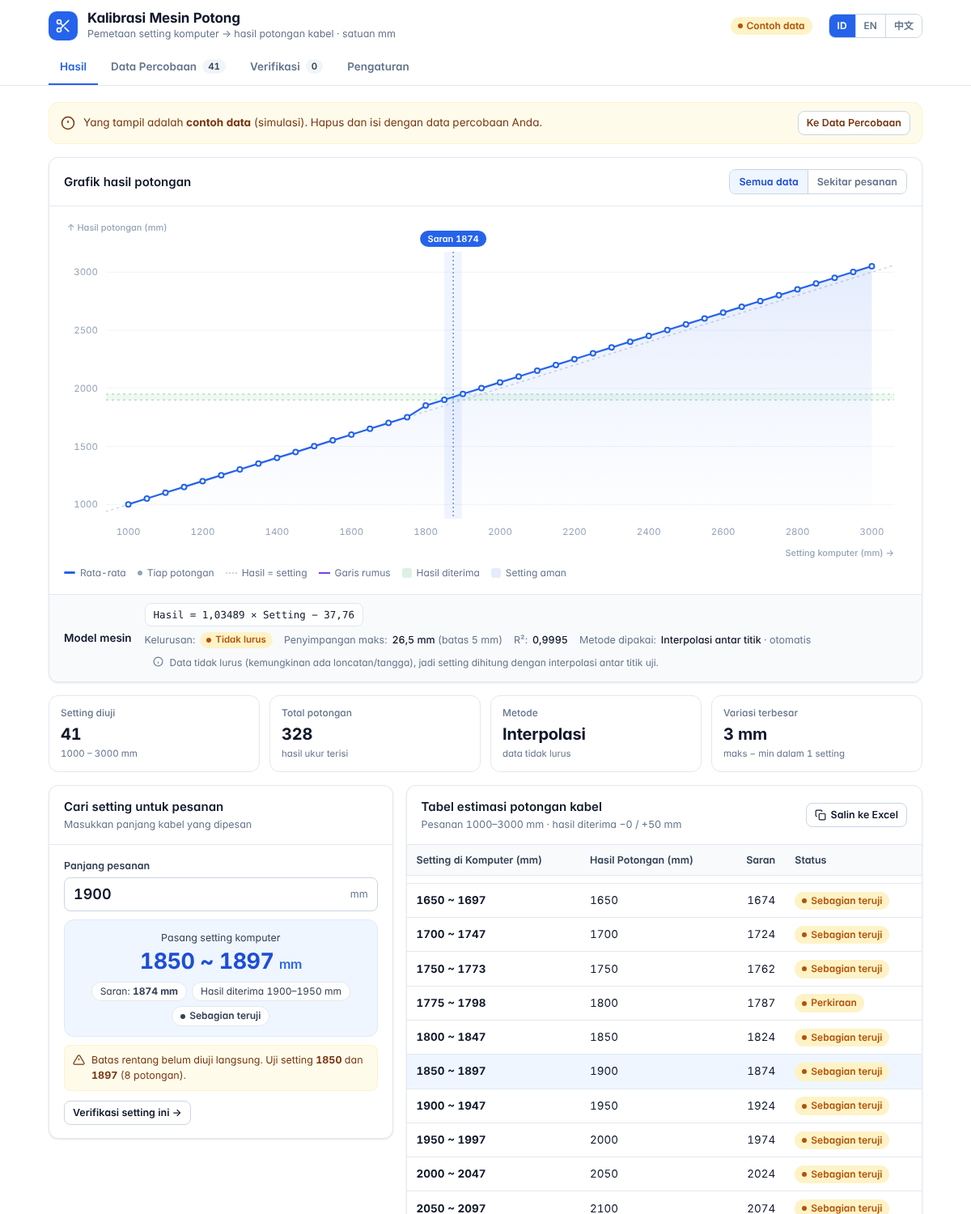
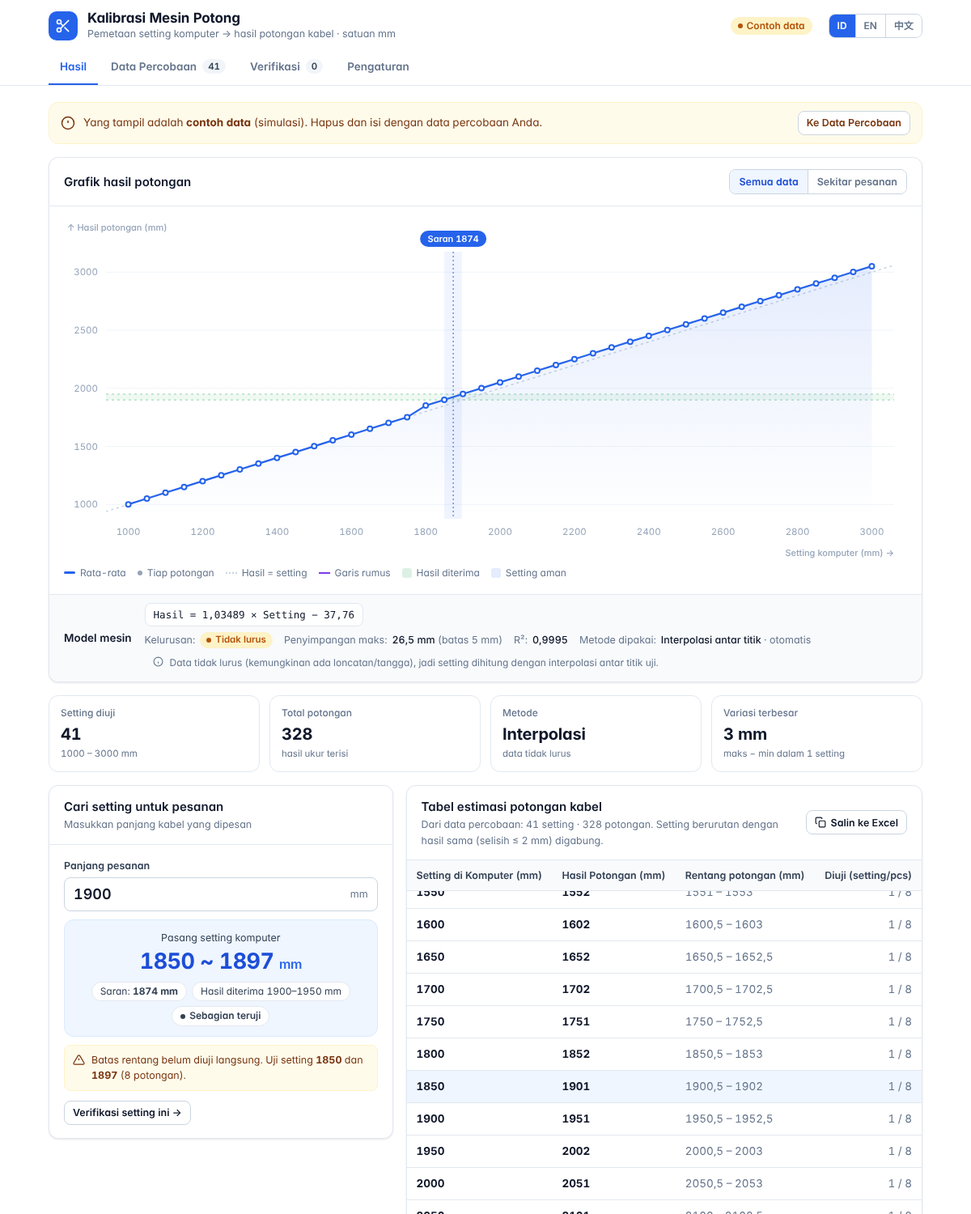
Estimation table built from trial data; remove row-interval setting
- Table rows now come from tested settings only; consecutive settings with
  the same result (mean difference <= 2 mm) are merged into one range
- Highlight rows safe for the searched order; copy-to-Excel follows new table
- Remove 'row interval' setting; mapping range now only drives Stage 1 suggestions
- Settings stored by key (backward compatible with older saved data)

Claude-Session: https://claude.ai/code/session_012YpKXFKuL8qfAd7MSWeyxr

Changed region(s): [[0.4317, 0.644, 0.925, 1.0]]

diff --git a/index.html b/index.html
@@ -369,7 +369,6 @@ svg.chart{width:100%;height:auto;display:block}
         <div class="form-grid">
           <div class="field"><label for="rmin" data-i="f.rmin"></label><div class="unit"><input id="rmin" class="inp" type="number" step="1" value="1000"></div></div>
           <div class="field"><label for="rmax" data-i="f.rmax"></label><div class="unit"><input id="rmax" class="inp" type="number" step="1" value="3000"></div></div>
-          <div class="field"><label for="rstep" data-i="f.rstep"></label><div class="unit"><input id="rstep" class="inp" type="number" step="1" min="1" value="50"></div><div class="help" data-i="h.rstep"></div></div>
         </div>
       </div>
     </div>
@@ -459,7 +458,7 @@ function suggestions(S,rmin,rmax,lookupRows){
     if(gap>10){for(let s=Math.ceil((a.sp+1)/10)*10;s<b.sp;s+=10)if(!tested.has(s))t2.add(s);}
     else if(gap>1){const m=Math.round((a.sp+b.sp)/2);if(!tested.has(m))t3.add(m);}
   }
-  lookupRows.forEach(r=>r.res.segs.forEach(sg=>{[sg.a,sg.b].forEach(e=>{if(!tested.has(e))t3.add(e);});}));
+  (lookupRows||[]).forEach(r=>r&&r.segs&&r.segs.forEach(sg=>{[sg.a,sg.b].forEach(e=>{if(!tested.has(e))t3.add(e);});}));
   t2.forEach(s=>t3.delete(s));
   return {t1,t2:[...t2].sort((a,b)=>a-b),t3:[...t3].sort((a,b)=>a-b)};
 }
@@ -476,7 +475,7 @@ id:{
  'find.title':'Cari setting untuk pesanan','find.desc':'Masukkan panjang kabel yang dipesan','find.label':'Panjang pesanan',
  'model.title':'Model mesin',
  'tbl.title':'Tabel estimasi potongan kabel','btn.copy':'Salin ke Excel',
- 'tbl.foot':'{ok} kedua batas rentang sudah diuji · {part} / {est} batas dihitung dari model, perlu diuji · {need} belum ada data',
+ 
  'chart.title':'Grafik hasil potongan',
  'lg.pt':'Tiap potongan','lg.mean':'Rata-rata','lg.ideal':'Hasil = setting','lg.fit':'Garis rumus','lg.ok':'Hasil diterima','lg.safe':'Setting aman',
  'zoom.all':'Semua data','zoom.order':'Sekitar pesanan','sum.title':'Ringkasan per setting','sum.desc':'rata-rata, min, maks, variasi',
@@ -491,8 +490,8 @@ id:{
  'ver.order':'Pesanan','ver.setting':'Setting dipakai','ver.date':'Tanggal',
  'set.rules':'Aturan pesanan','set.rulesD':'Batas hasil potong yang diterima untuk setiap pesanan',
  'f.tolMin':'Boleh kurang','h.tolMin':'0 = tidak boleh lebih pendek dari pesanan','f.tolPlus':'Boleh lebih','h.tolPlus':'Pesanan 1900 → diterima 1900–1950',
- 'set.tbl':'Tabel estimasi','set.tblD':'Rentang panjang pesanan yang ditampilkan di tabel',
- 'f.rmin':'Pesanan dari','f.rmax':'Pesanan sampai','f.rstep':'Jarak antar baris','h.rstep':'50 → baris 1700, 1750, 1800, …',
+ 'set.tbl':'Rentang pemetaan','set.tblD':'Rentang setting untuk saran Tahap 1 (Rekomendasi, per 50 mm)',
+ 'f.rmin':'Dari','f.rmax':'Sampai',
  'set.method':'Metode perhitungan','set.methodD':'Cara web memperkirakan hasil di antara setting yang diuji','f.mode':'Metode',
  'mode.auto':'Otomatis (disarankan)','mode.rumus':'Rumus garis lurus','mode.interp':'Interpolasi antar titik',
  'h.mode':'Otomatis: pakai rumus jika data lurus (penyimpangan ≤ 5 mm), selain itu interpolasi.',
@@ -501,7 +500,7 @@ id:{
  'kpi.tested':'Setting diuji','kpi.total':'Total potongan','kpi.totalS':'hasil ukur terisi','kpi.method':'Metode','kpi.var':'Variasi terbesar','kpi.varS':'maks − min dalam 1 setting',
  'm.rumus':'Rumus','m.interp':'Interpolasi','m.lurus':'data lurus','m.tidak':'data tidak lurus',
  'hero.put':'Pasang setting komputer','hero.saran':'Saran','hero.acc':'Hasil diterima {a}–{b} mm',
- 'b.ok':'Teruji','b.part':'Sebagian teruji','b.est':'Perkiraan','b.need':'Perlu percobaan',
+ 'b.ok':'Teruji','b.part':'Sebagian teruji','b.est':'Perkiraan',
  'n.outData':'Rentang ini di luar setting yang pernah diuji (perpanjangan rumus). Wajib diuji dulu.',
  'n.ends':'Batas rentang belum diuji langsung. Uji setting <b>{a}</b> dan <b>{b}</b> (8 potongan).',
  'n.other':'Rentang lain yang juga aman: {r}','btn.verThis':'Verifikasi setting ini →',
@@ -515,8 +514,8 @@ id:{
  'md.noteI':'Data tidak lurus (kemungkinan ada loncatan/tangga), jadi setting dihitung dengan interpolasi antar titik uji.',
  'md.forced':'Rumus dipaksa padahal data tidak lurus. Hasil di sekitar titik loncatan bisa salah.',
  'eq.res':'Hasil','eq.set':'Setting','eq.setting':'setting',
- 'tbl.desc':'Pesanan {a}–{b} mm · hasil diterima −{m} / +{p} mm',
- 'th.set':'Setting di Komputer (mm)','th.res':'Hasil Potongan (mm)','th.sug':'Saran','th.status':'Status',
+ 
+ 'th.set':'Setting di Komputer (mm)','th.cuts':'Rentang potongan (mm)','th.tested':'Diuji (setting/pcs)','tested.x':'{s} / {n}','tbl.desc2':'Dari data percobaan: {s} setting · {n} potongan. Setting berurutan dengan hasil sama (selisih ≤ {d} mm) digabung.','tbl.foot2':'Baris biru = semua potongannya masuk {a}–{b} mm (aman untuk pesanan {p} mm).','th.res':'Hasil Potongan (mm)',
  'ts.set':'Setting','ts.n':'Terisi','ts.mean':'Rata-rata','ts.min':'Min','ts.max':'Maks','ts.sel':'Selisih','ts.var':'Variasi',
  'v.ok':'stabil','v.mid':'sedang','v.bad':'besar',
  'st.no':'Tahap {n}','st1.t':'Pemetaan kasar','st1.d':'Setting per 50 mm di seluruh rentang pesanan.','st1.p':'({d}/{t} selesai)','st1.done':'Semua titik per 50 mm sudah ada','st1.rec':'Rekomendasi','st1.nInc':'{n} setting belum lengkap','st1.dMan0':'Mengikuti setting yang Anda tambahkan di Data percobaan. Belum ada setting — tambahkan lewat kolom Setting komputer di bawah.','st1.man':'Manual','st1.dMan':'Mengikuti setting di Data percobaan: {d}/{n} setting lengkap (8 potongan). Klik angka untuk mengisi yang belum lengkap.','st1.doneMan':'Semua {n} setting manual sudah lengkap',
@@ -533,7 +532,7 @@ id:{
  'toast.imported':'{n} data dimasukkan','toast.skipped':', {n} baris dilewati','toast.cleared':'Semua data percobaan dihapus','toast.sample':'Contoh data dimuat',
  'toast.added':'{n} setting ditambahkan — isi hasil ukurnya','toast.copied':'Tabel tersalin — tempel di Excel','toast.copyFail':'Gagal menyalin','toast.delVer':'Verifikasi dihapus',
  'err.sp':'Isi setting komputer dulu.','err.dup':'Setting {s} sudah ada.','err.nan':'{n} kolom berisi bukan angka (merah). Kolom tersebut tidak dihitung.',
- 'err.range':'Rentang pesanan tidak valid (Pengaturan).','err.rows':'Baris tabel terlalu banyak. Perbesar jarak antar baris (Pengaturan).',
+ 'err.range':'Rentang pesanan tidak valid (Pengaturan).',
  'x.range':'{a} – {b} mm'
 },
 en:{
@@ -545,7 +544,7 @@ en:{
  'find.title':'Find setting for an order','find.desc':'Enter the ordered cable length','find.label':'Order length',
  'model.title':'Machine model',
  'tbl.title':'Cable cut estimation table','btn.copy':'Copy to Excel',
- 'tbl.foot':'{ok} both range limits tested · {part} / {est} limits calculated from the model, need testing · {need} no data yet',
+ 
  'chart.title':'Cut result chart',
  'lg.pt':'Each cut','lg.mean':'Average','lg.ideal':'Result = setting','lg.fit':'Formula line','lg.ok':'Accepted result','lg.safe':'Safe setting',
  'zoom.all':'All data','zoom.order':'Around order','sum.title':'Summary per setting','sum.desc':'average, min, max, variation',
@@ -560,8 +559,8 @@ en:{
  'ver.order':'Order','ver.setting':'Setting used','ver.date':'Date',
  'set.rules':'Order rules','set.rulesD':'Accepted cut result limits for each order',
  'f.tolMin':'Allowed shorter','h.tolMin':'0 = must not be shorter than the order','f.tolPlus':'Allowed longer','h.tolPlus':'Order 1900 → accepted 1900–1950',
- 'set.tbl':'Estimation table','set.tblD':'Range of order lengths shown in the table',
- 'f.rmin':'Order from','f.rmax':'Order to','f.rstep':'Row interval','h.rstep':'50 → rows 1700, 1750, 1800, …',
+ 'set.tbl':'Mapping range','set.tblD':'Setting range for Stage 1 suggestions (Recommended, every 50 mm)',
+ 'f.rmin':'From','f.rmax':'To',
  'set.method':'Calculation method','set.methodD':'How the app estimates results between tested settings','f.mode':'Method',
  'mode.auto':'Automatic (recommended)','mode.rumus':'Straight-line formula','mode.interp':'Interpolation between points',
  'h.mode':'Automatic: use the formula if data is straight (deviation ≤ 5 mm), otherwise interpolation.',
@@ -570,7 +569,7 @@ en:{
  'kpi.tested':'Settings tested','kpi.total':'Total cuts','kpi.totalS':'measured results','kpi.method':'Method','kpi.var':'Largest variation','kpi.varS':'max − min within 1 setting',
  'm.rumus':'Formula','m.interp':'Interpolation','m.lurus':'straight data','m.tidak':'non-straight data',
  'hero.put':'Set the computer to','hero.saran':'Suggested','hero.acc':'Accepted result {a}–{b} mm',
- 'b.ok':'Tested','b.part':'Partly tested','b.est':'Estimated','b.need':'Needs trial',
+ 'b.ok':'Tested','b.part':'Partly tested','b.est':'Estimated',
  'n.outData':'This range is outside the tested settings (formula extrapolation). It must be tested first.',
  'n.ends':'Range limits not directly tested yet. Test settings <b>{a}</b> and <b>{b}</b> (8 cuts).',
  'n.other':'Other safe ranges: {r}','btn.verThis':'Verify this setting →',
@@ -584,8 +583,8 @@ en:{
  'md.noteI':'Data is not straight (likely steps/jumps), so the setting is calculated by interpolating between tested points.',
  'md.forced':'Formula forced although data is not straight. Results near jump points may be wrong.',
  'eq.res':'Result','eq.set':'Setting','eq.setting':'setting',
- 'tbl.desc':'Order {a}–{b} mm · accepted result −{m} / +{p} mm',
- 'th.set':'Computer Setting (mm)','th.res':'Cut Result (mm)','th.sug':'Suggested','th.status':'Status',
+ 
+ 'th.set':'Computer Setting (mm)','th.cuts':'Cut range (mm)','th.tested':'Tested (settings/pcs)','tested.x':'{s} / {n}','tbl.desc2':'From trial data: {s} settings · {n} cuts. Consecutive settings with the same result (difference ≤ {d} mm) are merged.','tbl.foot2':'Blue rows = all cuts within {a}–{b} mm (safe for order {p} mm).','th.res':'Cut Result (mm)',
  'ts.set':'Setting','ts.n':'Filled','ts.mean':'Average','ts.min':'Min','ts.max':'Max','ts.sel':'Difference','ts.var':'Variation',
  'v.ok':'stable','v.mid':'medium','v.bad':'large',
  'st.no':'Stage {n}','st1.t':'Coarse mapping','st1.d':'Settings every 50 mm across the order range.','st1.p':'({d}/{t} done)','st1.done':'All 50 mm points are present','st1.rec':'Recommended','st1.nInc':'{n} settings incomplete','st1.dMan0':'Follows the settings you add in Trial data. No settings yet — add them with the Computer setting field below.','st1.man':'Manual','st1.dMan':'Follows the settings in Trial data: {d}/{n} complete (8 cuts). Click a number to fill an incomplete one.','st1.doneMan':'All {n} manual settings are complete',
@@ -602,7 +601,7 @@ en:{
  'toast.imported':'{n} values imported','toast.skipped':', {n} rows skipped','toast.cleared':'All trial data cleared','toast.sample':'Sample data loaded',
  'toast.added':'{n} settings added — enter the measured results','toast.copied':'Table copied — paste into Excel','toast.copyFail':'Copy failed','toast.delVer':'Verification deleted',
  'err.sp':'Enter the computer setting first.','err.dup':'Setting {s} already exists.','err.nan':'{n} fields are not numbers (red). They are not counted.',
- 'err.range':'Invalid order range (Settings).','err.rows':'Too many table rows. Increase the row interval (Settings).',
+ 'err.range':'Invalid order range (Settings).',
  'x.range':'{a} – {b} mm'
 },
 zh:{
@@ -614,7 +613,7 @@ zh:{
  'find.title':'查找订单设定值','find.desc':'输入订单线缆长度','find.label':'订单长度',
  'model.title':'机器模型',
  'tbl.title':'线缆裁切估算表','btn.copy':'复制到 Excel',
- 'tbl.foot':'{ok} 范围两端均已测试 · {part} / {est} 范围端点由模型计算，需测试 · {need} 尚无数据',
+ 
  'chart.title':'裁切结果图',
  'lg.pt':'每次裁切','lg.mean':'平均值','lg.ideal':'结果 = 设定值','lg.fit':'公式线','lg.ok':'可接受结果','lg.safe':'安全设定',
  'zoom.all':'全部数据','zoom.order':'订单附近','sum.title':'各设定值汇总','sum.desc':'平均值、最小值、最大值、波动',
@@ -629,8 +628,8 @@ zh:{
  'ver.order':'订单','ver.setting':'所用设定值','ver.date':'日期',
  'set.rules':'订单规则','set.rulesD':'每个订单可接受的裁切结果范围',
  'f.tolMin':'允许偏短','h.tolMin':'0 = 不得短于订单长度','f.tolPlus':'允许偏长','h.tolPlus':'订单 1900 → 可接受 1900–1950',
- 'set.tbl':'估算表','set.tblD':'表中显示的订单长度范围',
- 'f.rmin':'订单起始','f.rmax':'订单结束','f.rstep':'行间隔','h.rstep':'50 → 行 1700、1750、1800 …',
+ 'set.tbl':'映射范围','set.tblD':'阶段 1 建议的设定值范围（推荐，每 50 mm）',
+ 'f.rmin':'从','f.rmax':'到',
  'set.method':'计算方法','set.methodD':'如何估算已测设定值之间的结果','f.mode':'方法',
  'mode.auto':'自动（推荐）','mode.rumus':'直线公式','mode.interp':'点间插值',
  'h.mode':'自动：数据呈直线（偏差 ≤ 5 mm）时用公式，否则用插值。',
@@ -639,7 +638,7 @@ zh:{
  'kpi.tested':'已测设定值','kpi.total':'裁切总数','kpi.totalS':'已填测量结果','kpi.method':'方法','kpi.var':'最大波动','kpi.varS':'同一设定值内 最大−最小',
  'm.rumus':'公式','m.interp':'插值','m.lurus':'数据呈直线','m.tidak':'数据非直线',
  'hero.put':'电脑设定值','hero.saran':'建议','hero.acc':'可接受结果 {a}–{b} mm',
- 'b.ok':'已测试','b.part':'部分测试','b.est':'估算','b.need':'需试验',
+ 'b.ok':'已测试','b.part':'部分测试','b.est':'估算',
  'n.outData':'此范围超出已测设定值（公式外推），必须先测试。',
  'n.ends':'范围端点尚未直接测试。请测试设定值 <b>{a}</b> 和 <b>{b}</b>（各 8 根）。',
  'n.other':'其他安全范围：{r}','btn.verThis':'验证此设定 →',
@@ -653,8 +652,8 @@ zh:{
  'md.noteI':'数据非直线（可能存在台阶/跳变），因此设定值按已测点之间插值计算。',
  'md.forced':'数据非直线却强制使用公式。跳变点附近的结果可能有误。',
  'eq.res':'结果','eq.set':'设定值','eq.setting':'设定值',
- 'tbl.desc':'订单 {a}–{b} mm · 可接受结果 −{m} / +{p} mm',
- 'th.set':'电脑设定值 (mm)','th.res':'裁切结果 (mm)','th.sug':'建议','th.status':'状态',
+ 
+ 'th.set':'电脑设定值 (mm)','th.cuts':'裁切范围 (mm)','th.tested':'已测（设定值/根）','tested.x':'{s} / {n}','tbl.desc2':'来自试验数据：{s} 个设定值 · {n} 根。结果相同（差值 ≤ {d} mm）的连续设定值已合并。','tbl.foot2':'蓝色行 = 全部裁切在 {a}–{b} mm 内（适用于订单 {p} mm）。','th.res':'裁切结果 (mm)',
  'ts.set':'设定值','ts.n':'已填','ts.mean':'平均值','ts.min':'最小','ts.max':'最大','ts.sel':'差值','ts.var':'波动',
  'v.ok':'稳定','v.mid':'中等','v.bad':'较大',
  'st.no':'阶段 {n}','st1.t':'粗略映射','st1.d':'在订单范围内每 50 mm 一个设定值。','st1.p':'（已完成 {d}/{t}）','st1.done':'每 50 mm 的点已齐全','st1.rec':'推荐','st1.nInc':'{n} 个设定值未完成','st1.dMan0':'按您在试验数据中添加的设定值进行。尚无设定值 — 请在下方“电脑设定值”中添加。','st1.man':'手动','st1.dMan':'按试验数据中的设定值：已完成 {d}/{n}（8 根）。点击数字填写未完成的设定值。','st1.doneMan':'{n} 个手动设定值均已完成',
@@ -671,7 +670,7 @@ zh:{
  'toast.imported':'已导入 {n} 个数据','toast.skipped':'，跳过 {n} 行','toast.cleared':'已清除全部试验数据','toast.sample':'已载入示例数据',
  'toast.added':'已添加 {n} 个设定值 — 请填写测量结果','toast.copied':'表格已复制 — 可粘贴到 Excel','toast.copyFail':'复制失败','toast.delVer':'已删除验证',
  'err.sp':'请先输入电脑设定值。','err.dup':'设定值 {s} 已存在。','err.nan':'{n} 个格子不是数字（红色），不计入计算。',
- 'err.range':'订单范围无效（设置）。','err.rows':'表格行数过多。请增大行间隔（设置）。',
+ 'err.range':'订单范围无效（设置）。',
  'x.range':'{a} – {b} mm'
 }};
 let LANG='id';
@@ -871,6 +870,11 @@ function drawChart(S,res,M){
 })();
 
 /* --- render hasil --- */
+const SAME_MM=2;
+function groupRows(S){const rows=[];S.forEach(x=>{const r=rows[rows.length-1];
+    if(r&&Math.abs(x.mean-r.avg)<=SAME_MM){r.b=x.sp;r.items.push(x);r.avg=r.items.reduce((q,i)=>q+i.mean,0)/r.items.length;r.min=Math.min(r.min,x.min);r.max=Math.max(r.max,x.max);r.n+=x.n;r.mMin=Math.min(r.mMin,x.mean);r.mMax=Math.max(r.mMax,x.mean);}
+    else rows.push({a:x.sp,b:x.sp,items:[x],avg:x.mean,min:x.min,max:x.max,n:x.n,mMin:x.mean,mMax:x.mean});});return rows;}
+const resTxt=r=>fmt(Math.round(r.avg),0);
 const best=segs=>segs.length?segs.reduce((a,b)=>(b.b-b.a>a.b-a.a?b:a)):null;
 function rangeTxt(sg){return sg.a===sg.b?fmt(sg.a,0):fmt(sg.a,0)+' ~ '+fmt(sg.b,0);}
 function basis(sg){return sg.tested.length?(sg.endsTested?['ok',t('b.ok')]:['warn',t('b.part')]):['warn',t('b.est')];}
@@ -878,9 +882,8 @@ const eqTxt=f=>`${t('eq.res')} = ${fmt(f.b,5)} × ${t('eq.set')} ${f.a<0?'− '+
 const pill=(k,t)=>`<span class="pill p-${k}">${t}</span>`;
 function render(){
   const S=stats(GROUPS),tolMin=+$('tolMin').value||0,tolPlus=+$('tolPlus').value||0;
-  const rmin=Math.round(+$('rmin').value),rmax=Math.round(+$('rmax').value),rstep=Math.max(1,Math.round(+$('rstep').value||50));
+  const rmin=Math.round(+$('rmin').value),rmax=Math.round(+$('rmax').value);
   if(!(rmax>=rmin))throw new Error(t('err.range'));
-  if((rmax-rmin)/rstep>200)throw new Error(t('err.rows'));
   const full=S.length>=2;
   $('hasilEmpty').classList.toggle('hidden',full);$('hasilFull').classList.toggle('hidden',!full);
   LAST={S};
@@ -929,16 +932,15 @@ function render(){
     if($('mode').value==='rumus'&&!M.lurus&&S.length>=3)mh+=note(t('md.forced'));
     $('modelBox').innerHTML=mh;}
 
-  // tabel utama
-  const rows=[];for(let p=rmin;p<=rmax;p+=rstep)rows.push({p,res:safeRange(S,p,tolMin,tolPlus,M)});LAST.rows=rows;
-  $('tblDesc').textContent=t('tbl.desc',{a:fmt(rmin,0),b:fmt(rmax,0),m:fmt(tolMin,0),p:fmt(tolPlus,0)});
-  $('tblFoot').innerHTML=t('tbl.foot',{ok:pill('ok',t('b.ok')),part:pill('warn',t('b.part')),est:pill('warn',t('b.est')),need:pill('gray',t('b.need'))});
-  $('tblMain').innerHTML=`<thead><tr><th>${t('th.set')}</th><th>${t('th.res')}</th><th class="num">${t('th.sug')}</th><th>${t('th.status')}</th></tr></thead><tbody>`+rows.map(r=>{
-    const sg=best(r.res.segs);const b=sg?basis(sg):['gray',t('b.need')];
-    return `<tr${r.p===P?' class="hl"':''}><td class="strong">${sg?rangeTxt(sg):'<span class="muted">—</span>'}</td><td>${fmt(r.p,0)}</td><td class="num">${sg?fmt(sg.mid,0):'<span class="muted">—</span>'}</td><td>${pill(b[0],b[1])}</td></tr>`;}).join('')+'</tbody>';
-
+  // tabel dari data percobaan: setting berurutan dengan hasil sama (selisih rata-rata <= SAME_MM) digabung
+  const rows=groupRows(S);LAST.rows=rows;
+  const safe=r=>LAST.r&&r.min>=LAST.r.lo-1e-9&&r.max<=LAST.r.hi+1e-9;
+  $('tblDesc').textContent=t('tbl.desc2',{s:S.length,n:S.reduce((q,x)=>q+x.n,0),d:SAME_MM});
+  $('tblFoot').innerHTML=P>0&&LAST.r?t('tbl.foot2',{p:fmt(P,0),a:fmt(LAST.r.lo,0),b:fmt(LAST.r.hi,0)}):'';
+  $('tblMain').innerHTML=`<thead><tr><th>${t('th.set')}</th><th>${t('th.res')}</th><th>${t('th.cuts')}</th><th class="num">${t('th.tested')}</th></tr></thead><tbody>`+rows.map(r=>
+    `<tr${safe(r)?' class="hl"':''}><td class="strong">${r.a===r.b?fmt(r.a,0):fmt(r.a,0)+' ~ '+fmt(r.b,0)}</td><td class="strong">${resTxt(r)}</td><td class="muted">${fmt(r.min)} – ${fmt(r.max)}</td><td class="num muted">${t('tested.x',{s:r.items.length,n:r.n})}</td></tr>`).join('')+'</tbody>';
   scrollHl();
-  renderSug(suggestions(S,rmin,rmax,rows),S);
+  renderSug(suggestions(S,rmin,rmax,[LAST.r]),S);
   drawChart(S,LAST.r||{segs:[],lo:NaN,hi:NaN},M);
 
   $('tblSum').innerHTML=`<thead><tr><th class="num">${t('ts.set')}</th><th class="num">${t('ts.n')}</th><th class="num">${t('ts.mean')}</th><th class="num">${t('ts.min')}</th><th class="num">${t('ts.max')}</th><th class="num">${t('ts.sel')}</th><th class="num">${t('ts.var')}</th><th></th></tr></thead><tbody>`+S.map(x=>{
@@ -989,13 +991,14 @@ $('verBody').addEventListener('click',e=>{const b=e.target.closest('button');if(
 
 /* --- salin --- */
 $('btnCopy').onclick=()=>{if(!LAST.rows)return;
-  const txt=[t('th.set'),t('th.res'),t('th.sug')+' (mm)',t('th.status')].join('\t')+'\n'+LAST.rows.map(r=>{const sg=best(r.res.segs);return [sg?rangeTxt(sg):'-',r.p,sg?sg.mid:'-',sg?basis(sg)[1]:t('b.need')].join('\t');}).join('\n');
+  const txt=[t('th.set'),t('th.res'),t('th.cuts'),t('th.tested')].join('\t')+'\n'+LAST.rows.map(r=>[r.a===r.b?r.a:r.a+' ~ '+r.b,resTxt(r),fmt(r.min)+' – '+fmt(r.max),t('tested.x',{s:r.items.length,n:r.n})].join('\t')).join('\n');
   try{navigator.clipboard.writeText(txt).then(()=>toast(t('toast.copied')),()=>toast(t('toast.copyFail'),1));}catch(e){toast(t('toast.copyFail'),1);}};
 
 /* --- simpan, contoh, auto --- */
-const FIELDS=['tolMin','tolPlus','rmin','rmax','rstep','order','mode'];
-function simpan(){try{localStorage.setItem('kmp3',JSON.stringify({g:GROUPS,v:VERS,c:isContoh,f:FIELDS.map(i=>$(i).value)}));}catch(e){}}
-function muat(){try{const j=JSON.parse(localStorage.getItem('kmp3')||localStorage.getItem('kmp2')||'null');if(!j)return false;if(Array.isArray(j.g))GROUPS=j.g;if(Array.isArray(j.v))VERS=j.v;isContoh=!!j.c;FIELDS.forEach((i,k)=>{if(j.f&&j.f[k]!=null&&j.f[k]!=='')$(i).value=j.f[k];});return true;}catch(e){return false;}}
+const FIELDS=['tolMin','tolPlus','rmin','rmax','order','mode'];
+const OLD_FIELDS=['tolMin','tolPlus','rmin','rmax','rstep','order','mode'];
+function simpan(){try{localStorage.setItem('kmp3',JSON.stringify({g:GROUPS,v:VERS,c:isContoh,fo:Object.fromEntries(FIELDS.map(i=>[i,$(i).value]))}));}catch(e){}}
+function muat(){try{const j=JSON.parse(localStorage.getItem('kmp3')||localStorage.getItem('kmp2')||'null');if(!j)return false;if(Array.isArray(j.g))GROUPS=j.g;if(Array.isArray(j.v))VERS=j.v;isContoh=!!j.c;const fo=j.fo||(Array.isArray(j.f)?Object.fromEntries(OLD_FIELDS.map((i,k)=>[i,j.f[k]])):{});FIELDS.forEach(i=>{if(fo[i]!=null&&fo[i]!=='')$(i).value=fo[i];});return true;}catch(e){return false;}}
 function contoh(){
   let seed=11;const rnd=()=>{seed=(seed*16807)%2147483647;return seed/2147483647;};
   const mesin=s=>s<1770?s:Math.floor(s/50)*50+50;

diff --git a/README.md b/README.md
@@ -2,15 +2,15 @@
 
 Web app statis untuk memetakan **setting komputer mesin potong kabel → hasil potongan aktual**, lalu membuat tabel setting untuk setiap panjang pesanan (PO).
 
-Contoh hasil akhir:
+Contoh hasil akhir (disusun langsung dari data percobaan):
 
 | Setting di Komputer (mm) | Hasil Potongan (mm) |
 |---|---|
-| 1800 ~ 1847 | 1850 |
-| 1850 ~ 1897 | 1900 |
-| 1900 ~ 1947 | 1950 |
+| 1800 ~ 1840 | 1850 |
+| 1850 ~ 1890 | 1900 |
+| 1900 | 1950 |
 
-Jika ada pesanan kabel 1900 mm, operator cukup memasang setting di rentang **1850 ~ 1897 mm** (saran: nilai tengah).
+Jika ada pesanan kabel 1900 mm, operator memasang setting di rentang yang hasilnya masuk toleransi pesanan, misalnya **1850 ~ 1890 mm**.
 
 ![Tampilan tab Hasil](docs/hasil.png)
 
@@ -27,7 +27,11 @@ Toleransi mesin potong tidak konstan di semua ukuran. Hubungan antara setting di
 - Panel **Model mesin**: rumus garis lurus `Hasil = b × Setting + a`, R², penyimpangan maksimum, dan keputusan apakah data lurus.
 - Ringkasan: jumlah setting diuji, total potongan, metode, variasi terbesar.
 - **Cari setting untuk pesanan**: masukkan panjang pesanan, lalu muncul rentang setting aman beserta saran nilai tengah.
-- **Tabel estimasi potongan kabel**: format setting → hasil, dengan status *Teruji / Sebagian teruji / Perkiraan / Perlu percobaan*, dan tombol **Salin ke Excel**.
+- **Tabel estimasi potongan kabel** disusun langsung dari data percobaan:
+  - Satu baris per setting yang diuji. Setting berurutan dengan hasil sama (selisih rata-rata ≤ 2 mm) digabung menjadi satu rentang, misalnya `1800 ~ 1840 → 1850`.
+  - Kolomnya: hasil potongan (rata-rata), rentang potongan (min–maks), dan jumlah setting/potongan yang diuji.
+  - Baris yang semua potongannya masuk toleransi pesanan yang sedang dicari diberi warna biru.
+  - Tombol **Salin ke Excel**.
 - Ringkasan per setting: rata-rata, min, maks, selisih, variasi.
 
 **Tab Data Percobaan**
@@ -49,7 +53,7 @@ Toleransi mesin potong tidak konstan di semua ukuran. Hubungan antara setting di
 
 **Tab Pengaturan**
 - Toleransi pesanan: boleh kurang / boleh lebih (default 0 / +50 mm).
-- Rentang pesanan dan jarak antar baris tabel (default 1000–3000 mm, per 50 mm).
+- Rentang pemetaan untuk saran Tahap 1 Rekomendasi (default 1000–3000 mm, per 50 mm).
 - Metode perhitungan: *Otomatis* (disarankan), *Rumus garis lurus*, atau *Interpolasi antar titik*.
 
 **Umum**
@@ -75,9 +79,10 @@ Toleransi mesin potong tidak konstan di semua ukuran. Hubungan antara setting di
 - **Interpolasi antar titik**: nilai min dan maks hasil di antara dua setting yang diuji diinterpolasi linear, lalu rentang aman dicari per 1 mm.
 - **Rumus garis lurus**: regresi linear dari semua potongan. Sebaran tiap potongan terhadap garis (residual min/maks) dipakai sebagai batas prediksi. Setting saran = `(P + tengah toleransi − a) / b`.
 - **Otomatis**: memakai rumus jika data lurus, yaitu rata-rata tiap setting menyimpang ≤ 5 mm dari garis dan ada minimal 3 setting. Selain itu memakai interpolasi.
-- Label status:
+- Label status pada hasil pencarian pesanan:
   - **Teruji**: kedua batas rentang sudah diuji langsung.
   - **Sebagian teruji** / **Perkiraan**: batas dihitung dari model dan perlu diuji (Tahap 3).
+- **Tabel estimasi** hanya berisi setting yang benar-benar diuji, tanpa interpolasi. Pengelompokan: setting berurutan digabung jika rata-rata hasilnya berbeda ≤ 2 mm.
 - Rentang hasil perpanjangan rumus di luar setting yang pernah diuji selalu diberi peringatan.
 
 ## Struktur repo
